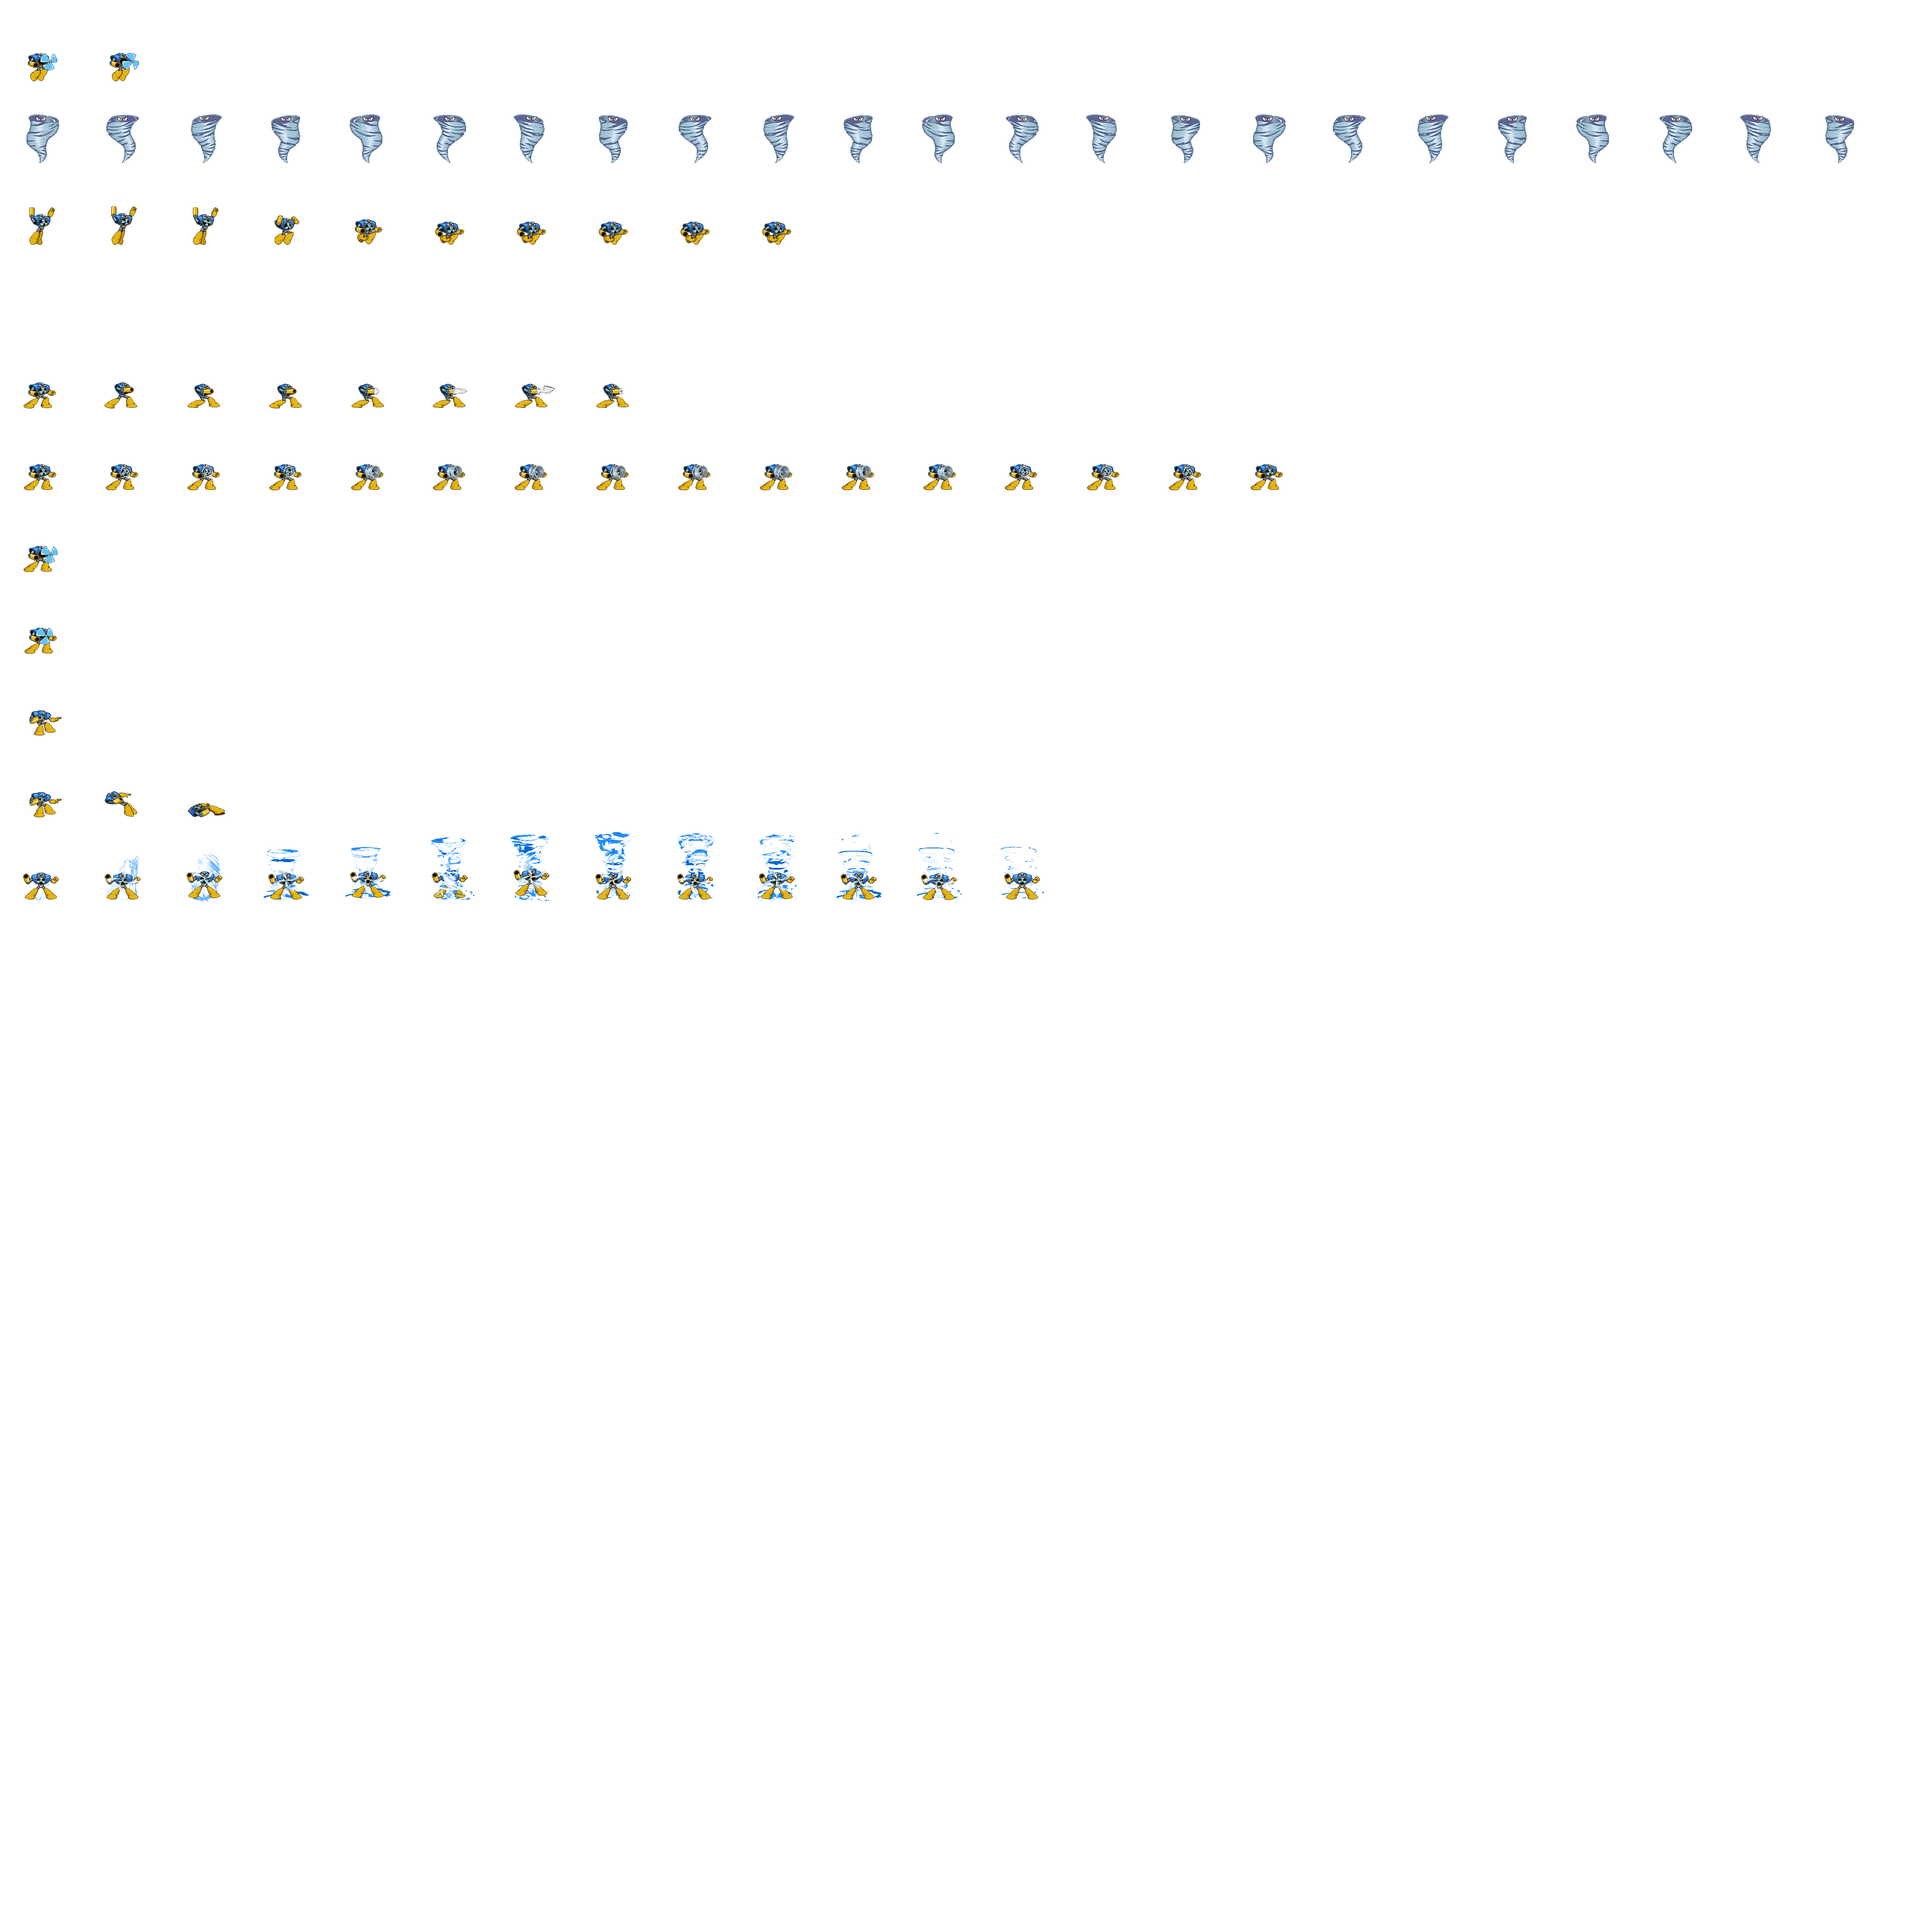
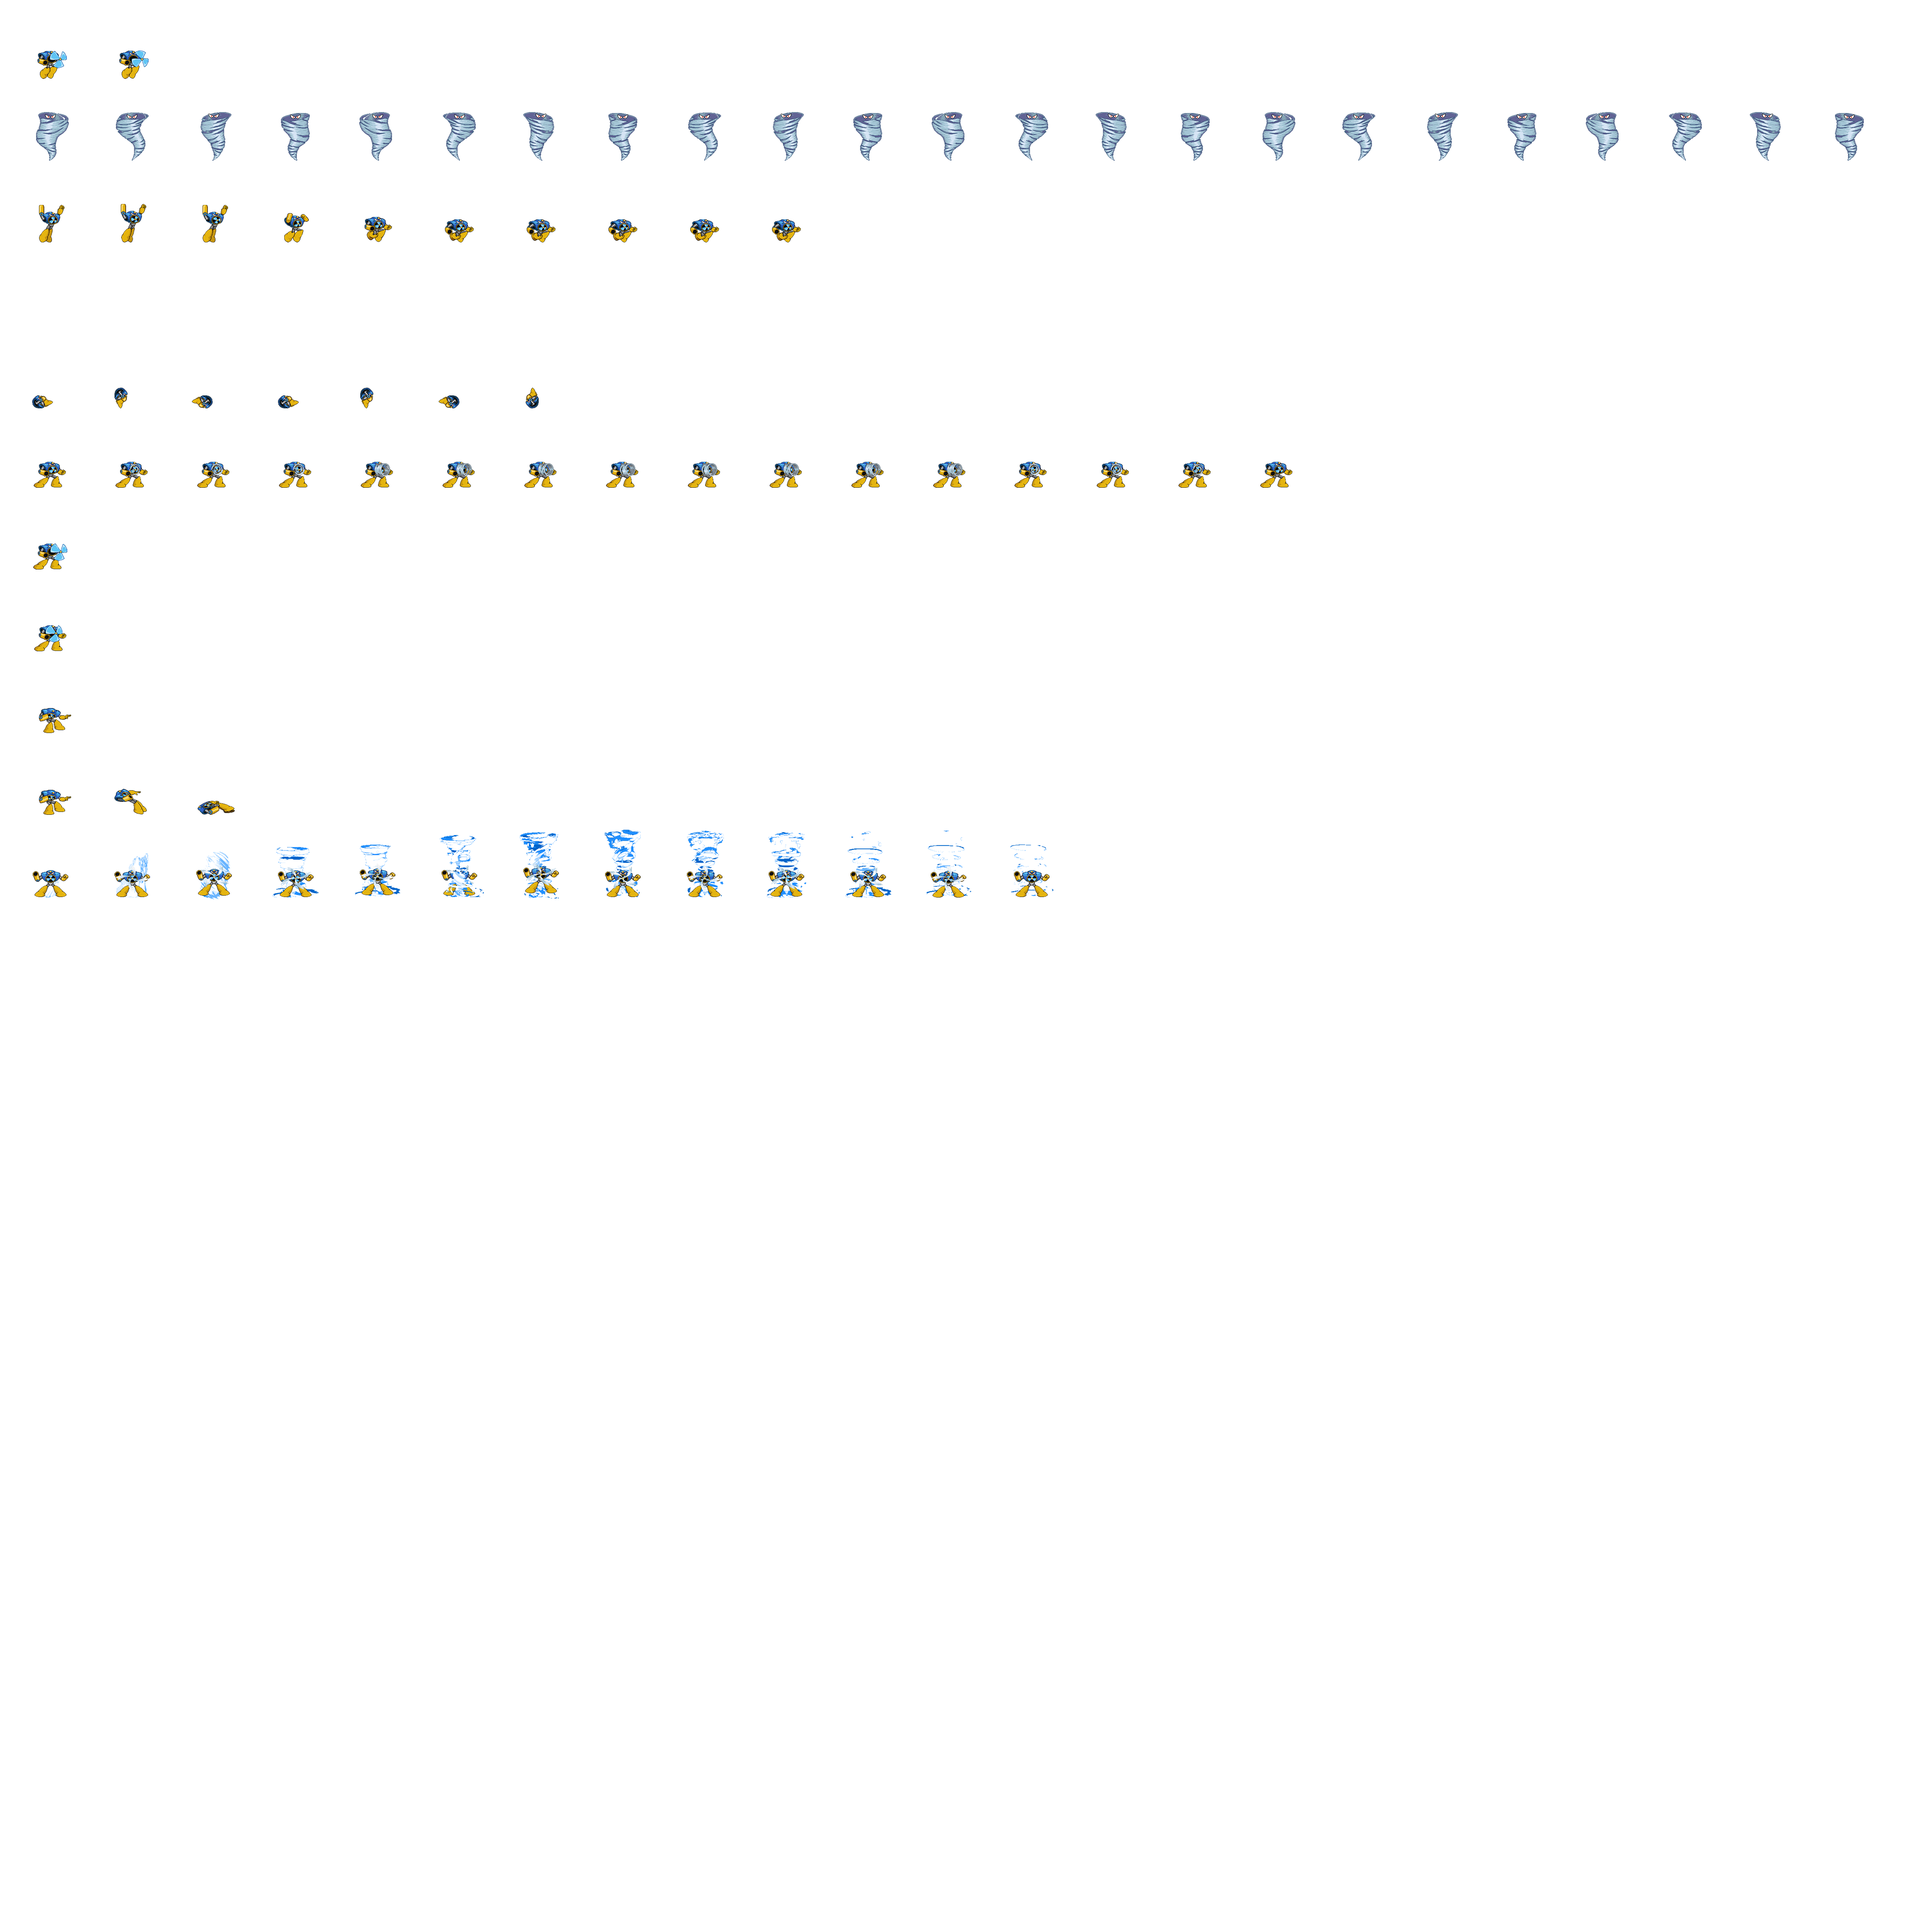
trying to add roll to airman light atk

diff --git a/UltraBrawl/UltraBrawl/Characters/Airman.cs b/UltraBrawl/UltraBrawl/Characters/Airman.cs
@@ -43,7 +43,7 @@ namespace UltraBrawl
             base.pcSegmentEndings.Add(new Point(22, 1)); //running
             base.pcSegmentEndings.Add(new Point(7, 2)); //jumping
             base.pcSegmentEndings.Add(new Point(5, 3)); //jumpkick
-            base.pcSegmentEndings.Add(new Point(7, 4)); //punch
+            base.pcSegmentEndings.Add(new Point(6, 4)); //punch
             base.pcSegmentEndings.Add(new Point(15, 5)); //kick
             base.pcSegmentEndings.Add(new Point(0, 6)); //block
             base.pcSegmentEndings.Add(new Point(0, 6)); //blockhit
@@ -96,6 +96,31 @@ namespace UltraBrawl
             CHARACTER_NAME = "Airman";
         }
 
+        public override void heavyAttack()
+        {
+            isFire = true;
+            hasFired = true;
+
+
+
+        }
+
+        public override void lightAttack()
+        {
+
+            if (isLGT)
+            {
+                if (effects == SpriteEffects.None)
+                {
+                    velocity.X += 300;
+                }
+                else
+                {
+                    velocity.X -= 300;
+                }
+            }
+        }
+
         public override void spawn(PlayerPreset preset)
         {
             position = preset.spawn;
@@ -143,14 +168,7 @@ namespace UltraBrawl
        
         
 
-        public override void heavyAttack()
-        {
-            isFire = true;
-            hasFired = true;
-
-
-        }
-
+      
 
         public override void chargedOne()
         {

diff --git a/UltraBrawl/UltraBrawl/Projectiles/AirManHeavyGust.cs b/UltraBrawl/UltraBrawl/Projectiles/AirManHeavyGust.cs
@@ -17,7 +17,9 @@ namespace UltraBrawl
             {
                 this.speed.X = speed.X * -1;
                 this.velocity = new Vector2(-64, 0);
-                this.position.X = position.X - 150;
+                this.position.X = position.X + 300;
+              
+
 
             }
             else
@@ -27,7 +29,7 @@ namespace UltraBrawl
                 this.position.X = position.X-500;
 
             }
-            this.position.Y = position.Y;
+            this.position.Y = position.Y-50;
             gravity = new Vector2(0, 0);
             Point frameSize = new Point(170, 170);
             currentFrame.Y = 3;
